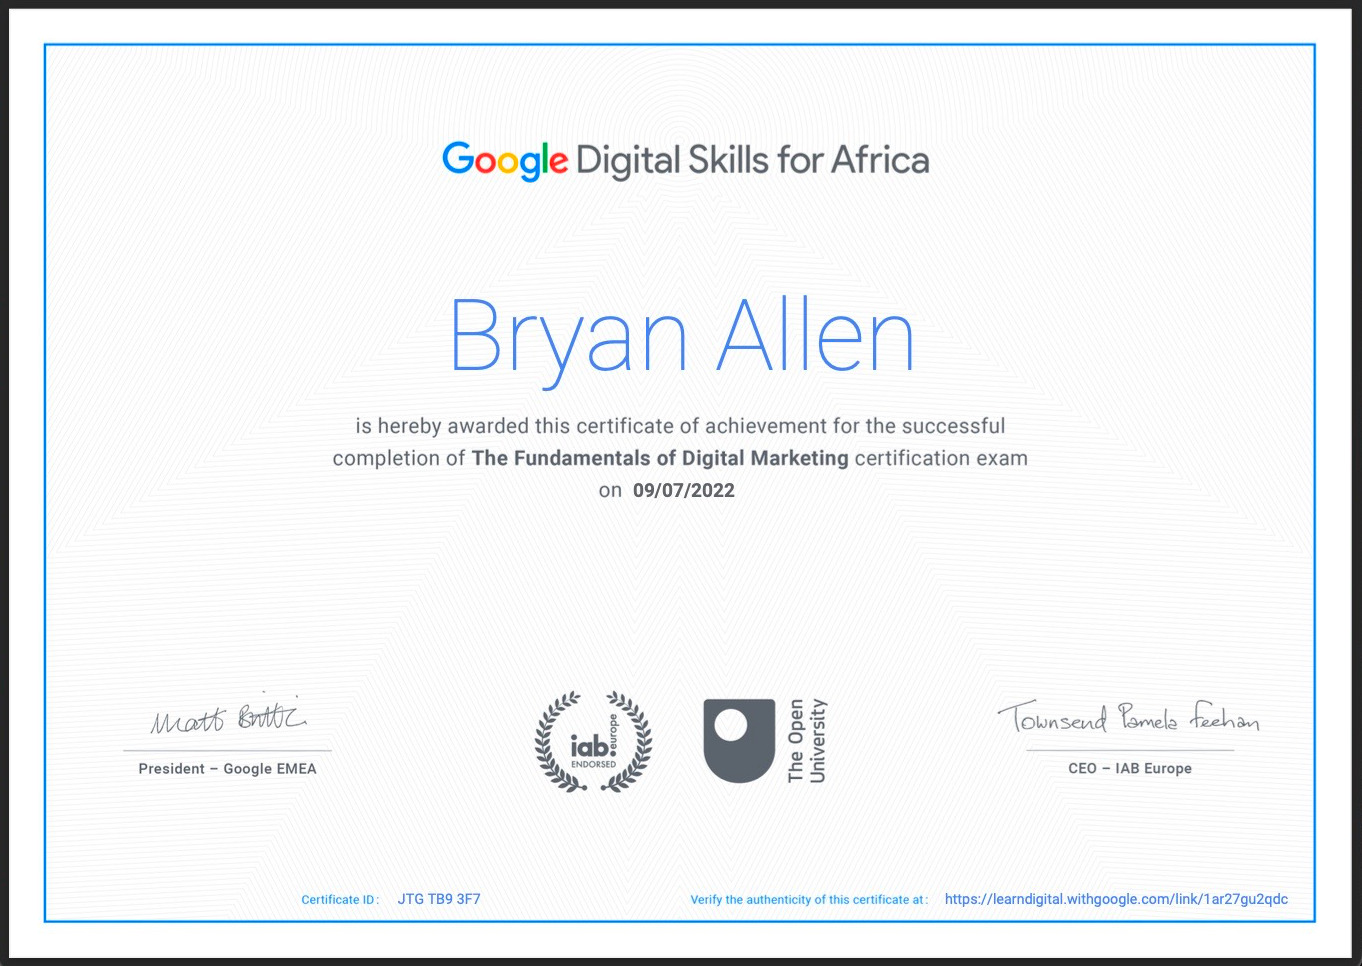
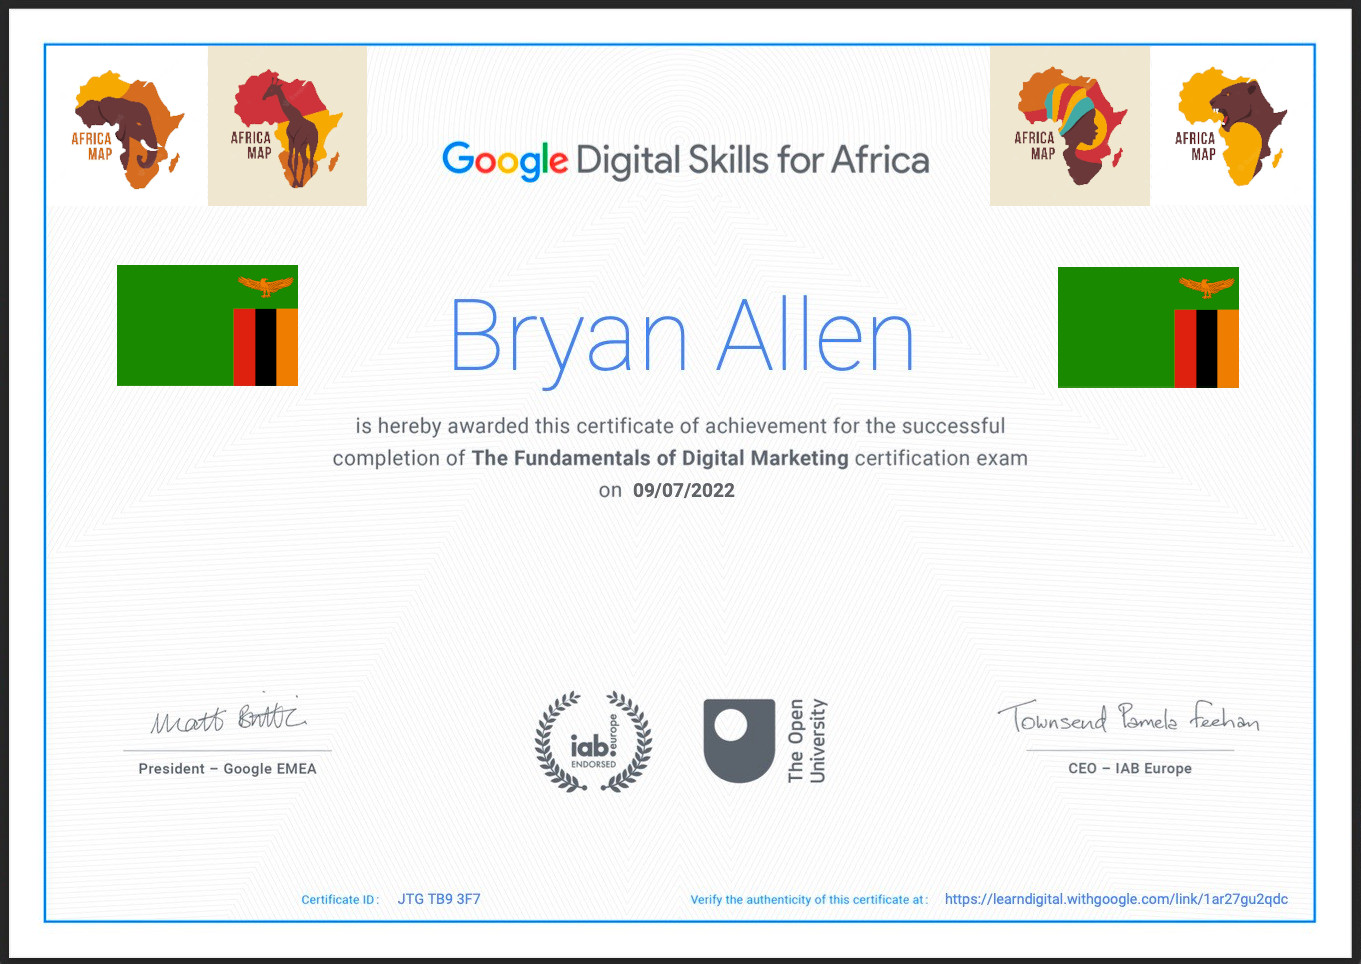
Updated certificate image to show badges

diff --git a/css/main.css b/css/main.css
@@ -147,3 +147,14 @@ p {
     background-position: 0 0;
   }
 }
+/* 
+@media only screen and (min-width: 1200px) {  
+  #certificate {
+    width: 400px;
+    height: 280px;
+  }
+  .shadow {
+    width: 400px;
+    height: 280px;
+  }
+} */
